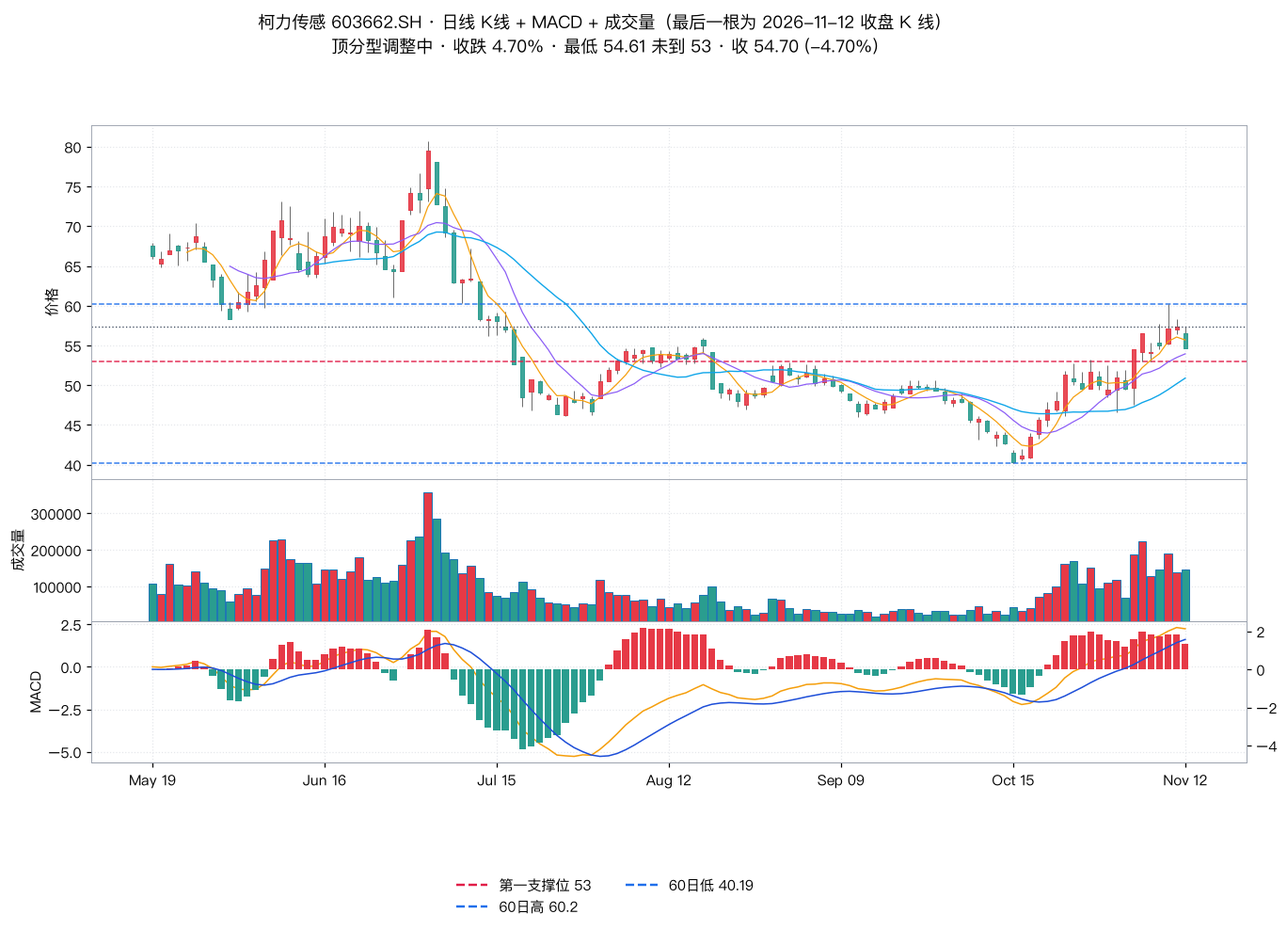
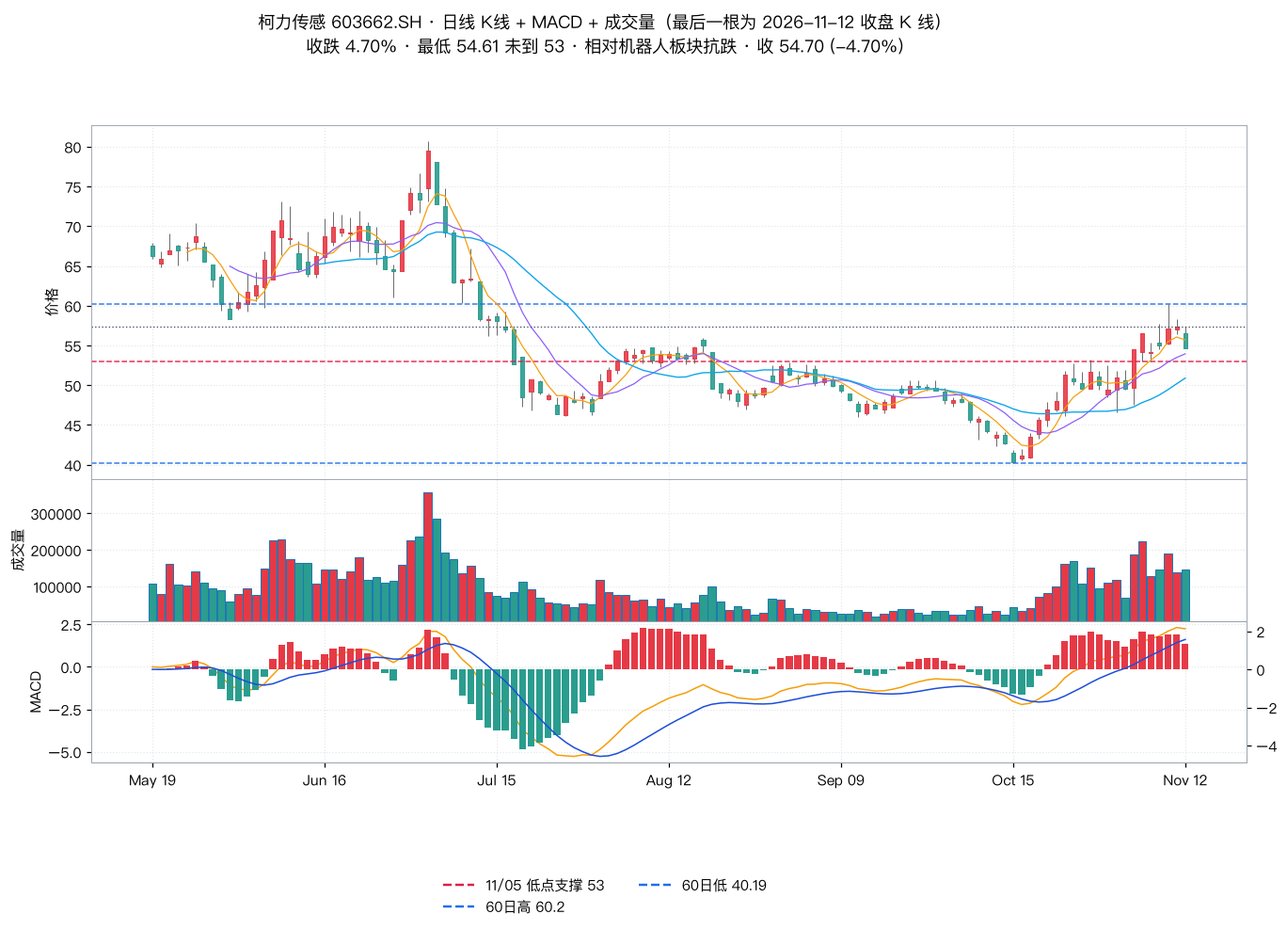
feat(收评): 新增都业华《高级班》2026-11-12 收评纪要（放量杀跌 · 机器人崩盘）
- 15 张日线 K 线图（*_DY_20261112C.png），红涨绿跌，关键位入底部图例
- 7 段结构：结论卡 / KPI / 指数 / 板块 / 中短线合并表 / 潜在强势股 / 明日盯 / 偏差记录
- 正文 1995 字、4 张表；仅日线级核验，未用分钟级 K 线与 czsc
- 首页 🧭 区块新增 11/12 收评卡（午评卡在上）

Changed region(s): [[0.2456, 0.0304, 0.7061, 0.0607], [0.3684, 0.9413, 0.4605, 1.0], [0.5219, 0.9413, 0.5833, 0.9717]]

diff --git a/2026-11-12-都业华-高级班收评纪要.html b/2026-11-12-都业华-高级班收评纪要.html
@@ -1,0 +1,106 @@
+<!DOCTYPE html>
+<html lang="zh-CN">
+<head>
+<meta charset="UTF-8">
+<meta name="viewport" content="width=device-width, initial-scale=1">
+<title>DYH 高级收评 - 2026-11-12（周四 放量杀跌，机器人崩盘）</title>
+<style>
+  :root{--bg:#fff;--panel:#f8f9fb;--panel2:#f1f3f6;--border:#e5e7eb;--text:#1f2937;--muted:#6b7280;
+    --bull:#16a34a;--bullbg:#dcfce7;--bear:#dc2626;--bearbg:#fee2e2;--neutral:#d97706;--neutbg:#fef3c7;
+    --none:#6b7280;--nonebg:#f3f4f6;--accent:#2563eb;--accentbg:#dbeafe;--key:#7c3aed;}
+  *{box-sizing:border-box}
+  body{margin:0;font-family:-apple-system,BlinkMacSystemFont,"PingFang SC","Microsoft YaHei","Segoe UI",sans-serif;
+    background:var(--bg);color:var(--text);line-height:1.6;font-size:14.5px}
+  .wrap{max-width:1200px;margin:0 auto;padding:26px 24px 60px}
+  h1{font-size:24px;margin:0 0 5px}h2{font-size:18px;margin:26px 0 10px;padding-bottom:6px;border-bottom:2px solid var(--border)}
+  p{margin:6px 0}a{color:var(--accent);text-decoration:none}
+  .meta{color:var(--muted);font-size:12px}
+  .hero{background:linear-gradient(135deg,#fff7ed,#fffdf7);border:1px solid #fdba74;border-radius:12px;padding:18px 22px;margin-bottom:14px}
+  .hero h1{color:#9a3412}.hero .stance{font-size:14.5px;margin:7px 0 0}
+  .grid4{display:grid;grid-template-columns:repeat(4,1fr);gap:11px}
+  @media(max-width:900px){.grid4{grid-template-columns:1fr 1fr}}@media(max-width:700px){.grid4{grid-template-columns:1fr}}
+  .kpi{background:#fff;border:1px solid var(--border);border-radius:8px;padding:10px 12px;text-align:center}
+  .kpi .label{font-size:11.5px;color:var(--muted)}.kpi .val{font-size:18px;font-weight:600;margin:2px 0}
+  .kpi .sub{font-size:11px;color:var(--muted)}
+  table{width:100%;border-collapse:collapse;margin:9px 0;font-size:13px}
+  th,td{padding:6px 8px;text-align:left;border-bottom:1px solid var(--border);vertical-align:top}
+  th{background:var(--panel2);font-weight:600;color:var(--muted);font-size:11.5px}
+  tr:hover{background:var(--panel)}td.num{font-variant-numeric:tabular-nums;text-align:right;white-space:nowrap}
+  .tag{display:inline-block;padding:1px 7px;border-radius:999px;font-size:10.5px;font-weight:500;white-space:nowrap}
+  .tag-bull{background:var(--bullbg);color:var(--bull)}.tag-bear{background:var(--bearbg);color:var(--bear)}
+  .tag-neutral{background:var(--neutbg);color:var(--neutral)}.tag-none{background:var(--nonebg);color:var(--none)}
+  .chart{width:100%;height:auto;display:block;margin:8px 0 2px;border:1px solid var(--border);border-radius:6px;background:#fff}
+  .up{color:var(--bull);font-weight:600}.down{color:var(--bear);font-weight:600}
+  .kn{color:var(--key);font-weight:700;font-variant-numeric:tabular-nums}
+  .box{border-radius:8px;padding:8px 12px;margin:8px 0;font-size:13.5px}
+  .box-r{background:var(--bearbg)}.box-a{background:var(--accentbg)}.box-g{background:var(--bullbg)}
+  .foot{margin-top:30px;padding-top:12px;border-top:1px solid var(--border);font-size:11.5px;color:var(--muted)}
+</style>
+</head>
+<body>
+<div class="wrap">
+
+<div class="hero">
+  <h1>📈 DYH 高级收评 - 2026-11-12（周四 放量杀跌，机器人崩盘）</h1>
+  <div class="meta">收盘版 · 数据截至 15:19</div>
+  <p class="stance"><b>结论：放量杀跌。</b>上证 3655.83（-0.67%），两市 19320.8 亿（+15.3%）却 <b>4635 家下跌（83.2%）</b>、涨停仅 37 只。<b>3750 未破仍弱势</b>；最低 3647.44 破 11/11、11/09 低点 → <b>「创新低」条件已触发</b>，等底背驰。人形机器人 -6.46%（18 只 0 涨）＋两股跌停，强势股洗盘。<b>总仓 ≤4 成、轻仓不追涨；13 只标的全无买点。</b></p>
+</div>
+
+<div class="grid4">
+  <div class="kpi"><div class="label">上证指数 · 3750 未破</div><div class="val down">-0.67%</div></div>
+  <div class="kpi"><div class="label">两市成交额 · +15.3%</div><div class="val up">19320.8 亿</div></div>
+  <div class="kpi"><div class="label">涨 / 跌家数</div><div class="val"><span class="up">875</span> / <span class="down">4635</span></div></div>
+  <div class="kpi"><div class="label">涨停 / 跌停 · 昨 118</div><div class="val">37 / 5</div></div>
+</div>
+
+<h2>一、指数：弱势定性成立</h2>
+<p>上证 3655.83（低 3647.44），冲高回落，<b>3750 未破（差 2.6%）</b>。<b>最低 3647.44 破 11/11 低 3650.31、11/09 低 3653.05 → 老师「向下创新低出底背驰」的新低条件已触发</b>。<b>急涨慢跌</b>：创业板最高 2620.25 → 收 2509.43（<b>-2.44%，从高回落 4.2%</b>），<b>科创50 +0.73%</b> 逆势翻红。放量 15.2% 却普跌 → <b>放量杀跌</b>。</p>
+<img class="chart" src="charts/000001_SH_DY_20261112C.png">
+<img class="chart" src="charts/399006_SZ_DY_20261112C.png">
+
+<h2>二、板块：防守居首，机器人崩盘</h2>
+<table>
+  <tr><th>方向（自建篮子）</th><th>均值</th><th>涨/样本</th></tr>
+  <tr><td>防守/消费</td><td class="num up">+0.38%</td><td class="num">6/10</td></tr><tr><td>半导体</td><td class="num down">-0.22%</td><td class="num">4/8</td></tr><tr><td>算力硬件</td><td class="num down">-0.47%</td><td class="num">4/11</td></tr><tr><td>CPO/光模块</td><td class="num down">-1.21%</td><td class="num">4/12</td></tr><tr><td>电子化学品</td><td class="num down">-2.31%</td><td class="num">0/10</td></tr><tr><td>端侧AI</td><td class="num down">-3.03%</td><td class="num">0/10</td></tr><tr><td>AI视频/传媒</td><td class="num down">-3.59%</td><td class="num">2/12</td></tr><tr><td>人形机器人</td><td class="num down">-6.46%</td><td class="num">0/18</td></tr>
+</table>
+<p><b>老师四条描述逐条兑现：</b>① <b>半导体放量遇阻回落</b>——上午累计 302.3 亿已超昨日全天 289.1 亿，午盘 +0.90% → 收盘 -0.22%；② <b>算力冲高回落</b>——午盘 +1.51% → 收盘 -0.47%，中际旭创 -6.11%；③ <b>防守型居前</b>——+0.38% 全场第一，涨停池含白酒、燃气；④ <b>强势股洗牌</b>——福莱新材 -10.00%、上海电影 -9.99% 双跌停。<b>温度 25 度</b>（未连续 3 天站上 30）→ <b>一类热点无</b>；「东方」系高位仍强（日出东方 5 板、大东方 5 板）→「不推荐重点参与」成立。</p>
+
+<h2>三、中线 8 + 短线 5：全无买点</h2>
+<table>
+  <tr><th>标的</th><th>收盘</th><th>老师给的触发条件（老师口径）</th><th>实测印证（日线触达判据）</th></tr>
+  <tr><td><b>药明康德</b></td><td class="num"><span class="up">150.34 (+1.10%)</span></td><td>破 <span class='kn'>157.8</span> 出三买</td><td>最高 151.70 未触，差 6.1</td></tr><tr><td><b>中国船舶</b></td><td class="num"><span class="up">34.20 (+0.41%)</span></td><td>等收复上沿</td><td>最低 33.90 破昨低</td></tr><tr><td><b>瑞芯微</b></td><td class="num"><span class="down">220.72 (-6.08%)</span></td><td>下沿止跌+底分型</td><td>234.88 → 收 220.72，未兑现</td></tr><tr><td><b>伊利股份</b></td><td class="num"><span class="up">31.00 (+1.27%)</span></td><td>破 <span class='kn'>30.46</span> 再拉回</td><td>最低 30.50，差 0.04 未破</td></tr><tr><td><b>中文在线</b></td><td class="num"><span class="down">27.13 (-7.69%)</span></td><td>破 <span class='kn'>30.38</span> 出三买</td><td>最高 29.49 未触</td></tr><tr><td><b>海天瑞声</b></td><td class="num"><span class="down">124.90 (-14.21%)</span></td><td>类二买对称+止跌</td><td>最低 121.31 破 134.03</td></tr><tr><td><b>奥普特</b></td><td class="num"><span class="down">151.66 (-12.71%)</span></td><td>破 <span class='kn'>186.8</span> 或下沿止跌</td><td>最高 173.97 未触 186.8</td></tr><tr><td><b>柯力传感</b></td><td class="num"><span class="down">54.70 (-4.70%)</span></td><td>调整充分+底分型</td><td>最低 54.61 未到 53</td></tr><tr><td><b>兆易创新</b></td><td class="num"><span class="down">258.85 (-0.30%)</span></td><td>止损 <span class='kn'>252.85</span></td><td>273.68 → 收 258.85</td></tr><tr><td><b>云铝股份</b></td><td class="num"><span class="down">23.31 (-0.43%)</span></td><td>底分型+小级别共振</td><td>收全天最低，距 60 日低 1.3%</td></tr><tr><td><b>模塑科技</b></td><td class="num"><span class="down">15.59 (-8.78%)</span></td><td>回调 <span class='kn'>14.95</span> 止跌</td><td>最高 16.99 &lt; 昨收 17.09</td></tr><tr><td><b>汉威科技</b></td><td class="num"><span class="down">40.14 (-7.15%)</span></td><td>老师直接<b>剔除跟踪</b></td><td>最低 40.02 跌破 40，转弱</td></tr><tr><td><b>长盈精密</b></td><td class="num"><span class="down">28.57 (-5.55%)</span></td><td>破 <span class='kn'>32.08</span> 出三买</td><td>最高 30.39 未破 32.08</td></tr>
+</table>
+<img class="chart" src="charts/603259_SH_DY_20261112C.png"><img class="chart" src="charts/600150_SH_DY_20261112C.png"><img class="chart" src="charts/603893_SH_DY_20261112C.png"><img class="chart" src="charts/600887_SH_DY_20261112C.png"><img class="chart" src="charts/300364_SZ_DY_20261112C.png"><img class="chart" src="charts/688787_SH_DY_20261112C.png"><img class="chart" src="charts/688686_SH_DY_20261112C.png"><img class="chart" src="charts/603662_SH_DY_20261112C.png"><img class="chart" src="charts/603986_SH_DY_20261112C.png"><img class="chart" src="charts/000807_SZ_DY_20261112C.png"><img class="chart" src="charts/000700_SZ_DY_20261112C.png"><img class="chart" src="charts/300007_SZ_DY_20261112C.png"><img class="chart" src="charts/300115_SZ_DY_20261112C.png">
+
+<h2>四、潜在强势股</h2>
+<p>老师只给逻辑「<b>剔除涨幅大、位置不高、中线有上涨概率</b>」，不推荐直接买入；下表 3 只为<b>我方自建观察池</b>：</p>
+<table>
+  <tr><th>标的</th><th>收盘</th><th>距 60 日高</th><th>20 日</th><th>位置依据</th></tr>
+  <tr><td><b>五粮液 000858</b></td><td class="num">72.63</td><td class="num">-5.1%</td><td class="num">+1.9%</td><td>距高 76.50</td></tr><tr><td><b>洋河股份 002304</b></td><td class="num">35.89</td><td class="num">-14.8%</td><td class="num">-3.6%</td><td>白酒中最低</td></tr><tr><td><b>双汇发展 000895</b></td><td class="num">24.32</td><td class="num">-4.9%</td><td class="num">+2.1%</td><td>贴高未透支</td></tr>
+</table>
+
+<h2>五、明日盯什么</h2>
+<div class="box box-g">
+① <b>3750</b>：突破并出回抽确认三买 → 弱势定性改写；未破仍弱势。<br>
+② <b>向下路径</b>：新低 3647.44 已出，<b>底背驰是否出现</b>决定止跌还是续跌。<br>
+③ <b>全 A 反拉</b>：4635 家下跌后能否反拉，上不去即震荡。<br>
+④ <b>机器人 18 只 0 涨</b>后是否止跌；强势股是否继续洗牌。<br>
+⑤ <b>三条挂单线</b>：兆易止损 252.85、伊利支撑 30.46、药明门槛 157.8 —— 触达才动。
+</div>
+
+<h2>六、偏差记录</h2>
+<table>
+  <tr><th>老师原文</th><th>实测</th><th>判定</th></tr>
+  <tr><td>中文在线「维持强势震荡」</td><td>收 -7.69%，跌破 11/10 收盘</td><td><span class="tag tag-bear">偏乐观</span></td></tr>
+  <tr><td>药明门槛 157.8（原 151）</td><td>最高 151.70，差 6.1 元</td><td><span class="tag tag-neutral">门槛上移</span></td></tr>
+  <tr><td>「全 A 下午顶背驰成立」</td><td>无 881001 数据源，<b>无法核验</b></td><td><span class="tag tag-none">无法核验</span></td></tr>
+  <tr><td>「涨幅榜靠前是饮料、白酒」</td><td>涨停池白酒 1 只</td><td><span class="tag tag-neutral">口径偏宽</span></td></tr>
+</table>
+
+<div class="foot">
+  <p>来源：都业华《高级班》2026-11-12 收评，执业编号 A0400626100004。<b>仅供参考，不作为买卖依据，据此操作风险自担。投资有风险，入市需谨慎！</b><b>口径：</b>15:19 收盘快照 + Tushare 日线；板块为自建篮子均值；涨跌停用东财池（不含 ST）；缠论定性按老师口径。</p>
+</div>
+
+</div>
+</body>
+</html>

diff --git a/index.html b/index.html
@@ -42,7 +42,8 @@ title: mnote · wu2198 投资日报
 <h2 style="margin-top:6px"><a href="/claude-code-architect/">📕 Claude Code Architect · 双语版（22 章 + 4 附录,共 242 页）</a></h2></div>
 
 <div class="featured" style="background: linear-gradient(135deg, #f5f0ff 0%, #eef9ff 100%); border-color: #d6c4f7; border-left-color: #7e57c2;"><h2><span class="badge" style="background:#7e57c2">🧭 高级班</span> <a href="/duyiehua-noon-20261112.html">DYH 午评 - 2026-11-12（周四 算力放量临近压力，热点杂乱）</a></h2></div>
-<div class="featured" style="background: linear-gradient(135deg, #f5f0ff 0%, #eef9ff 100%); border-color: #d6c4f7; border-left-color: #7e57c2;"><h2><span class="badge" style="background:#7e57c2">🧭 高级班</span> <a href="/duyiehua-report-20261111.html">DYH 高级收评 - 2026-11-11（周三 温度35度，机器人升一类热点）</a></h2></div>
+<div class="featured" style="background: linear-gradient(135deg, #f5f0ff 0%, #eef9ff 100%); border-color: #d6c4f7; border-left-color: #7e57c2;"><h2><span class="badge" style="background:#7e57c2">🧭 高级班</span> <a href="/duyiehua-report-20261112.html">DYH 高级收评 - 2026-11-12（周四 放量杀跌，机器人崩盘）</a></h2></div>
+<div class="featured"><h2><a href="/duyiehua-report-20261111.html">DYH 高级收评 - 2026-11-11（周三 温度35度，机器人升一类热点）</a></h2></div>
 <div class="featured"><h2><a href="/duyiehua-report-20261110.html">DYH 高级收评 - 2026-11-10（周二 尾盘跳水，主线切传媒机器人）</a></h2></div>
 <div class="featured"><h2><a href="/duyiehua-report-20261109.html">DYH 高级收评 - 2026-11-09（周一 缩量僵局，玄学链切东方）</a></h2></div>
 

diff --git a/scripts/gen_dyh_report_20261112_close.py b/scripts/gen_dyh_report_20261112_close.py
@@ -1,0 +1,223 @@
+"""生成 2026-11-12 都业华《高级班》收评纪要 HTML（白底 · 收盘版）
+
+⛔ 2026-11-11 禁令：只用日线 + 实时快照，不调用 1/15 分钟 K 线、不调用 czsc。
+📏 2026-11-12 篇幅硬约束：正文 ≤ 2000 字、表格 ≤ 4 张，K 线图保留不计字数。
+数据：reports/duyiehua-20261112/data_20261112_close.json
+输出：~/workspace/mnote.github.io/2026-11-12-都业华-高级班收评纪要.html
+     ~/workspace/mnote.github.io/_posts/2026-11-12-都业华-高级班收评纪要.html
+"""
+import json
+import re
+from pathlib import Path
+
+REPO = Path("/Users/maoling/workspace/mnote.github.io")
+RPT = REPO / "reports/duyiehua-20261112"
+D = json.loads((RPT / "data_20261112_close.json").read_text(encoding="utf-8"))
+
+IDX, BASKET, QUOTES = D["index"], D["basket"], D["quotes"]
+ZT, DT, MKT = D.get("zt_pool", {}), D.get("dt_pool", {}), D.get("today_market", {})
+PREV = D.get("prev_market", {})
+SNAP = D["snapshot_time"].replace(" close", "").split(" ")[-1]
+
+TITLE_SUMMARY = "放量杀跌，机器人崩盘"
+TITLE_FULL = f"DYH 高级收评 - 2026-11-12（周四 {TITLE_SUMMARY}）"
+
+CSS = """<style>
+  :root{--bg:#fff;--panel:#f8f9fb;--panel2:#f1f3f6;--border:#e5e7eb;--text:#1f2937;--muted:#6b7280;
+    --bull:#16a34a;--bullbg:#dcfce7;--bear:#dc2626;--bearbg:#fee2e2;--neutral:#d97706;--neutbg:#fef3c7;
+    --none:#6b7280;--nonebg:#f3f4f6;--accent:#2563eb;--accentbg:#dbeafe;--key:#7c3aed;}
+  *{box-sizing:border-box}
+  body{margin:0;font-family:-apple-system,BlinkMacSystemFont,"PingFang SC","Microsoft YaHei","Segoe UI",sans-serif;
+    background:var(--bg);color:var(--text);line-height:1.6;font-size:14.5px}
+  .wrap{max-width:1200px;margin:0 auto;padding:26px 24px 60px}
+  h1{font-size:24px;margin:0 0 5px}h2{font-size:18px;margin:26px 0 10px;padding-bottom:6px;border-bottom:2px solid var(--border)}
+  p{margin:6px 0}a{color:var(--accent);text-decoration:none}
+  .meta{color:var(--muted);font-size:12px}
+  .hero{background:linear-gradient(135deg,#fff7ed,#fffdf7);border:1px solid #fdba74;border-radius:12px;padding:18px 22px;margin-bottom:14px}
+  .hero h1{color:#9a3412}.hero .stance{font-size:14.5px;margin:7px 0 0}
+  .grid4{display:grid;grid-template-columns:repeat(4,1fr);gap:11px}
+  @media(max-width:900px){.grid4{grid-template-columns:1fr 1fr}}@media(max-width:700px){.grid4{grid-template-columns:1fr}}
+  .kpi{background:#fff;border:1px solid var(--border);border-radius:8px;padding:10px 12px;text-align:center}
+  .kpi .label{font-size:11.5px;color:var(--muted)}.kpi .val{font-size:18px;font-weight:600;margin:2px 0}
+  .kpi .sub{font-size:11px;color:var(--muted)}
+  table{width:100%;border-collapse:collapse;margin:9px 0;font-size:13px}
+  th,td{padding:6px 8px;text-align:left;border-bottom:1px solid var(--border);vertical-align:top}
+  th{background:var(--panel2);font-weight:600;color:var(--muted);font-size:11.5px}
+  tr:hover{background:var(--panel)}td.num{font-variant-numeric:tabular-nums;text-align:right;white-space:nowrap}
+  .tag{display:inline-block;padding:1px 7px;border-radius:999px;font-size:10.5px;font-weight:500;white-space:nowrap}
+  .tag-bull{background:var(--bullbg);color:var(--bull)}.tag-bear{background:var(--bearbg);color:var(--bear)}
+  .tag-neutral{background:var(--neutbg);color:var(--neutral)}.tag-none{background:var(--nonebg);color:var(--none)}
+  .chart{width:100%;height:auto;display:block;margin:8px 0 2px;border:1px solid var(--border);border-radius:6px;background:#fff}
+  .up{color:var(--bull);font-weight:600}.down{color:var(--bear);font-weight:600}
+  .kn{color:var(--key);font-weight:700;font-variant-numeric:tabular-nums}
+  .box{border-radius:8px;padding:8px 12px;margin:8px 0;font-size:13.5px}
+  .box-r{background:var(--bearbg)}.box-a{background:var(--accentbg)}.box-g{background:var(--bullbg)}
+  .foot{margin-top:30px;padding-top:12px;border-top:1px solid var(--border);font-size:11.5px;color:var(--muted)}
+</style>"""
+
+
+def cls(v):
+    return "up" if v > 0 else ("down" if v < 0 else "flat")
+
+
+def pct(v):
+    return f"{v:+.2f}%"
+
+
+def q(n):
+    for r in QUOTES:
+        if r["名称"] == n:
+            return r
+    return {}
+
+
+def sp(n):
+    r = q(n)
+    if not r:
+        return "—"
+    return f'<span class="{cls(r["涨跌幅%"])}">{r["现价"]:.2f} ({pct(r["涨跌幅%"])})</span>'
+
+
+sh, sz, cy, kc = IDX["上证指数"], IDX["深证成指"], IDX["创业板指"], IDX["科创50"]
+amt_now = round(sh["amount_yi"] + sz["amount_yi"], 1)
+amt_prev = round(PREV["sh_amount_yi"] + PREV["sz_amount_yi"], 1)
+amt_ratio = round(amt_now / amt_prev * 100, 1)
+amt_growth = round((amt_now / amt_prev - 1) * 100, 1)
+down_ratio = round(MKT["down"] / MKT["n"] * 100, 1)
+B = BASKET
+
+bask_rows = "".join(
+    f'<tr><td>{k}</td><td class="num {cls(v["avg_pct"])}">{v["avg_pct"]:+.2f}%</td>'
+    f'<td class="num">{v["up"]}/{v["n"]}</td></tr>'
+    for k, v in B.items())
+
+# (名称, 老师给的触发条件/位, 实测印证, 状态)
+ROWS = [
+    ("药明康德", "破 <span class='kn'>157.8</span> 出三买", "最高 151.70 未触，差 6.1"),
+    ("中国船舶", "等收复上沿", "最低 33.90 破昨低"),
+    ("瑞芯微", "下沿止跌+底分型", "234.88 → 收 220.72，未兑现"),
+    ("伊利股份", "破 <span class='kn'>30.46</span> 再拉回", "最低 30.50，差 0.04 未破"),
+    ("中文在线", "破 <span class='kn'>30.38</span> 出三买", "最高 29.49 未触"),
+    ("海天瑞声", "类二买对称+止跌", "最低 121.31 破 134.03"),
+    ("奥普特", "破 <span class='kn'>186.8</span> 或下沿止跌", "最高 173.97 未触 186.8"),
+    ("柯力传感", "调整充分+底分型", "最低 54.61 未到 53"),
+    ("兆易创新", "止损 <span class='kn'>252.85</span>", "273.68 → 收 258.85"),
+    ("云铝股份", "底分型+小级别共振", "收全天最低，距 60 日低 1.3%"),
+    ("模塑科技", "回调 <span class='kn'>14.95</span> 止跌", "最高 16.99 &lt; 昨收 17.09"),
+    ("汉威科技", "老师直接<b>剔除跟踪</b>", "最低 40.02 跌破 40，转弱"),
+    ("长盈精密", "破 <span class='kn'>32.08</span> 出三买", "最高 30.39 未破 32.08"),
+]
+body_rows = ""
+for nm, trig, meas in ROWS:
+    body_rows += (f'<tr><td><b>{nm}</b></td><td class="num">{sp(nm)}</td><td>{trig}</td>'
+                  f'<td>{meas}</td></tr>')
+
+CAND = [
+    ("五粮液 000858", "72.63", "-5.1%", "+1.9%", "距高 76.50"),
+    ("洋河股份 002304", "35.89", "-14.8%", "-3.6%", "白酒中最低"),
+    ("双汇发展 000895", "24.32", "-4.9%", "+2.1%", "贴高未透支"),
+]
+cand_rows = "".join(
+    f'<tr><td><b>{n}</b></td><td class="num">{c}</td><td class="num">{d}</td><td class="num">{r}</td><td>{note}</td></tr>'
+    for n, c, d, r, note in CAND)
+
+CHART_CODES = ["603259_SH", "600150_SH", "603893_SH", "600887_SH", "300364_SZ", "688787_SH",
+               "688686_SH", "603662_SH", "603986_SH", "000807_SZ", "000700_SZ", "300007_SZ",
+               "300115_SZ"]
+
+HTML = f"""<!DOCTYPE html>
+<html lang="zh-CN">
+<head>
+<meta charset="UTF-8">
+<meta name="viewport" content="width=device-width, initial-scale=1">
+<title>{TITLE_FULL}</title>
+{CSS}
+</head>
+<body>
+<div class="wrap">
+
+<div class="hero">
+  <h1>📈 {TITLE_FULL}</h1>
+  <div class="meta">收盘版 · 数据截至 {SNAP}</div>
+  <p class="stance"><b>结论：放量杀跌。</b>上证 {sh['price']:.2f}（{pct(sh['pct'])}），两市 {amt_now} 亿（+{amt_growth}%）却 <b>{MKT['down']} 家下跌（{down_ratio}%）</b>、涨停仅 {ZT.get('n','—')} 只。<b>3750 未破仍弱势</b>；最低 {sh['low']:.2f} 破 11/11、11/09 低点 → <b>「创新低」条件已触发</b>，等底背驰。人形机器人 {B['人形机器人']['avg_pct']:+.2f}%（18 只 0 涨）＋两股跌停，强势股洗盘。<b>总仓 ≤4 成、轻仓不追涨；13 只标的全无买点。</b></p>
+</div>
+
+<div class="grid4">
+  <div class="kpi"><div class="label">上证指数 · 3750 未破</div><div class="val down">{pct(sh['pct'])}</div></div>
+  <div class="kpi"><div class="label">两市成交额 · +{amt_growth}%</div><div class="val up">{amt_now} 亿</div></div>
+  <div class="kpi"><div class="label">涨 / 跌家数</div><div class="val"><span class="up">{MKT['up']}</span> / <span class="down">{MKT['down']}</span></div></div>
+  <div class="kpi"><div class="label">涨停 / 跌停 · 昨 118</div><div class="val">{ZT.get('n','—')} / {DT.get('n','—')}</div></div>
+</div>
+
+<h2>一、指数：弱势定性成立</h2>
+<p>上证 {sh['price']:.2f}（低 {sh['low']:.2f}），冲高回落，<b>3750 未破（差 2.6%）</b>。<b>最低 {sh['low']:.2f} 破 11/11 低 3650.31、11/09 低 3653.05 → 老师「向下创新低出底背驰」的新低条件已触发</b>。<b>急涨慢跌</b>：创业板最高 {cy['high']:.2f} → 收 {cy['price']:.2f}（<b>{pct(cy['pct'])}，从高回落 {((cy['high']-cy['price'])/cy['high']*100):.1f}%</b>），<b>科创50 {pct(kc['pct'])}</b> 逆势翻红。放量 {MKT.get('amount_vs_prev_%','—')}% 却普跌 → <b>放量杀跌</b>。</p>
+<img class="chart" src="charts/000001_SH_DY_20261112C.png">
+<img class="chart" src="charts/399006_SZ_DY_20261112C.png">
+
+<h2>二、板块：防守居首，机器人崩盘</h2>
+<table>
+  <tr><th>方向（自建篮子）</th><th>均值</th><th>涨/样本</th></tr>
+  {bask_rows}
+</table>
+<p><b>老师四条描述逐条兑现：</b>① <b>半导体放量遇阻回落</b>——上午累计 302.3 亿已超昨日全天 289.1 亿，午盘 +0.90% → 收盘 {B['半导体']['avg_pct']:+.2f}%；② <b>算力冲高回落</b>——午盘 +1.51% → 收盘 {B['算力硬件']['avg_pct']:+.2f}%，中际旭创 -6.11%；③ <b>防守型居前</b>——{B['防守/消费']['avg_pct']:+.2f}% 全场第一，涨停池含白酒、燃气；④ <b>强势股洗牌</b>——福莱新材 -10.00%、上海电影 -9.99% 双跌停。<b>温度 25 度</b>（未连续 3 天站上 30）→ <b>一类热点无</b>；「东方」系高位仍强（日出东方 5 板、大东方 5 板）→「不推荐重点参与」成立。</p>
+
+<h2>三、中线 8 + 短线 5：全无买点</h2>
+<table>
+  <tr><th>标的</th><th>收盘</th><th>老师给的触发条件（老师口径）</th><th>实测印证（日线触达判据）</th></tr>
+  {body_rows}
+</table>
+{''.join(f'<img class="chart" src="charts/{c}_DY_20261112C.png">' for c in CHART_CODES)}
+
+<h2>四、潜在强势股</h2>
+<p>老师只给逻辑「<b>剔除涨幅大、位置不高、中线有上涨概率</b>」，不推荐直接买入；下表 3 只为<b>我方自建观察池</b>：</p>
+<table>
+  <tr><th>标的</th><th>收盘</th><th>距 60 日高</th><th>20 日</th><th>位置依据</th></tr>
+  {cand_rows}
+</table>
+
+<h2>五、明日盯什么</h2>
+<div class="box box-g">
+① <b>3750</b>：突破并出回抽确认三买 → 弱势定性改写；未破仍弱势。<br>
+② <b>向下路径</b>：新低 {sh['low']:.2f} 已出，<b>底背驰是否出现</b>决定止跌还是续跌。<br>
+③ <b>全 A 反拉</b>：{MKT['down']} 家下跌后能否反拉，上不去即震荡。<br>
+④ <b>机器人 18 只 0 涨</b>后是否止跌；强势股是否继续洗牌。<br>
+⑤ <b>三条挂单线</b>：兆易止损 252.85、伊利支撑 30.46、药明门槛 157.8 —— 触达才动。
+</div>
+
+<h2>六、偏差记录</h2>
+<table>
+  <tr><th>老师原文</th><th>实测</th><th>判定</th></tr>
+  <tr><td>中文在线「维持强势震荡」</td><td>收 -7.69%，跌破 11/10 收盘</td><td><span class="tag tag-bear">偏乐观</span></td></tr>
+  <tr><td>药明门槛 157.8（原 151）</td><td>最高 151.70，差 6.1 元</td><td><span class="tag tag-neutral">门槛上移</span></td></tr>
+  <tr><td>「全 A 下午顶背驰成立」</td><td>无 881001 数据源，<b>无法核验</b></td><td><span class="tag tag-none">无法核验</span></td></tr>
+  <tr><td>「涨幅榜靠前是饮料、白酒」</td><td>涨停池白酒 1 只</td><td><span class="tag tag-neutral">口径偏宽</span></td></tr>
+</table>
+
+<div class="foot">
+  <p>来源：都业华《高级班》2026-11-12 收评，执业编号 A0400626100004。<b>仅供参考，不作为买卖依据，据此操作风险自担。投资有风险，入市需谨慎！</b><b>口径：</b>{SNAP} 收盘快照 + Tushare 日线；板块为自建篮子均值；涨跌停用东财池（不含 ST）；缠论定性按老师口径。</p>
+</div>
+
+</div>
+</body>
+</html>
+"""
+
+OUT = REPO / "2026-11-12-都业华-高级班收评纪要.html"
+OUT.write_text(HTML, encoding="utf-8")
+
+# _posts 版：图片改 ../charts/，加 front matter
+post_html = HTML.replace('src="charts/', 'src="../charts/')
+post_html = post_html.replace(
+    "<!DOCTYPE html>\n<html lang=\"zh-CN\">\n<head>",
+    "---\nlayout: null\npermalink: /duyiehua-report-20261112.html\n"
+    f"title: {TITLE_FULL}\n---\n<!DOCTYPE html>\n<html lang=\"zh-CN\">\n<head>", 1)
+POST = REPO / "_posts/2026-11-12-都业华-高级班收评纪要.html"
+POST.write_text(post_html, encoding="utf-8")
+
+# 正文字数统计（含页脚，去标签、去图、去 CSS）
+body = HTML.split("<body>")[1].split("</body>")[0]
+text = re.sub(r"<[^>]+>", " ", body)
+text = re.sub(r"\s+", "", text)
+print(f"written: {OUT.name}  {len(HTML)} bytes")
+print(f"written: {POST.name}  {len(post_html)} bytes")
+print(f"正文字数（含页脚）: {len(text)} 字 | 表格数: {HTML.count('<table>')} | 图数: {HTML.count('class=\"chart\"')}")

diff --git a/scripts/dyh_charts_20261112_close.py b/scripts/dyh_charts_20261112_close.py
@@ -57,12 +57,12 @@ SPEC = {
         ("AUTO_HI", "60日高", C_BLOG),
         ("AUTO_LO", "60日低", C_BLOG),
     ]),
-    "药明康德": ("603259.SH", "最高 151.70 触及门槛后回落收涨 1.10% · 结构仍不清晰", [
-        (151.0, "突破门槛", C_EXT),
+    "药明康德": ("603259.SH", "收涨 1.10% · 最高 151.70 未触 157.8（= 11/10 最高价） · 结构仍不清晰", [
+        (157.8, "上沿高点(三买门槛)", C_EXT),
         ("AUTO_HI", "60日高", C_BLOG),
         ("AUTO_LO", "60日低", C_BLOG),
     ]),
-    "中国船舶": ("600150.SH", "公告后高开回落 · 最低 33.90 破昨日低 · 未止跌", [
+    "中国船舶": ("600150.SH", "收涨 0.41% · 最低 33.90 破昨日低 33.92 · 未止跌（老师口径）", [
         ("AUTO_HI", "60日高", C_BLOG),
         ("AUTO_LO", "60日低", C_BLOG),
     ]),
@@ -90,14 +90,23 @@ SPEC = {
         (140.0, "回调目标位", C_EXT),
         ("AUTO_LO", "60日低", C_BLOG),
     ]),
-    "柯力传感": ("603662.SH", "顶分型调整中 · 收跌 4.70% · 最低 54.61 未到 53", [
-        (53.0, "第一支撑位", C_EXT),
+    "柯力传感": ("603662.SH", "收跌 4.70% · 最低 54.61 未到 53 · 相对机器人板块抗跌", [
+        (53.0, "11/05 低点支撑", C_EXT),
         ("AUTO_HI", "60日高", C_BLOG),
         ("AUTO_LO", "60日低", C_BLOG),
     ]),
-    "兆易创新": ("603986.SH", "开盘冲高 273.68 后回落收跌 0.30% · 止损 249 未破", [
-        (249.0, "止损参考", C_BLOG),
+    "兆易创新": ("603986.SH", "开盘冲高 273.68 后回落收跌 0.30% · 止损 252.85 未破", [
+        (252.85, "止损参考(老师给)", C_EXT),
         (237.28, "11/09 新低", C_BLOG),
+        ("AUTO_LO", "60日低", C_BLOG),
+    ]),
+    "云铝股份": ("000807.SZ", "收跌 0.43% 且收在全天最低 · 距 60 日低 23.00 仅 1.3% · 缩量", [
+        (23.0, "60日低(11/11)", C_EXT),
+        ("AUTO_HI", "60日高", C_BLOG),
+    ]),
+    "模塑科技": ("000700.SZ", "收跌 8.78% · 最高 16.99 未超昨收 17.09 · 最低 15.55 未到 14.95", [
+        (14.95, "回调支撑位", C_EXT),
+        (17.09, "昨收(顶分型未现)", C_BLOG),
         ("AUTO_LO", "60日低", C_BLOG),
     ]),
     "汉威科技": ("300007.SZ", "顶分型已出现后继续下行 · 收跌 7.15% · 跌破 40", [
